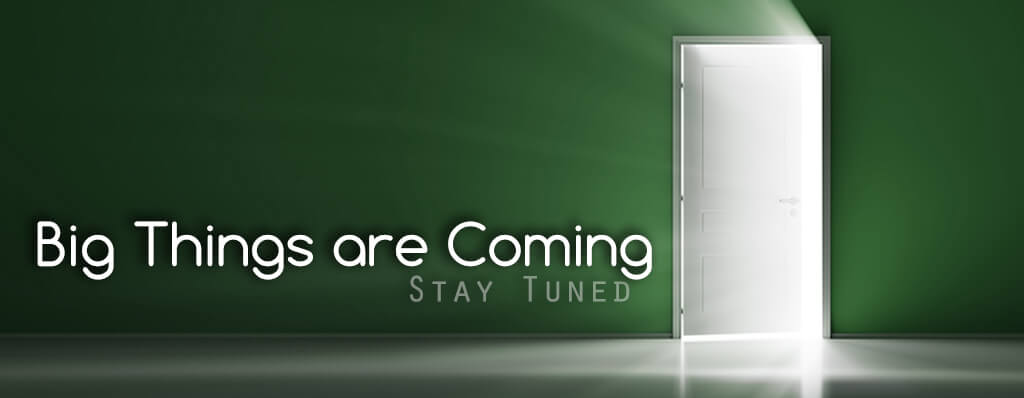
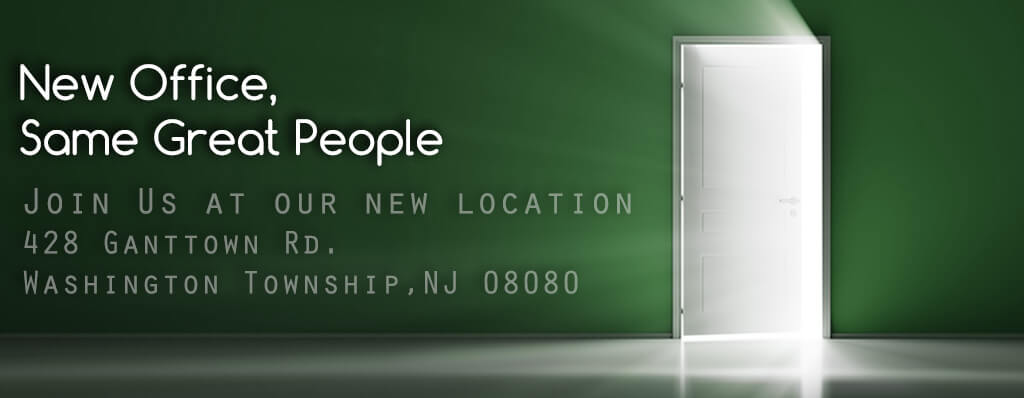
update

Changed region(s): [[0.0, 0.4824, 0.6562, 0.7538], [0.0, 0.3015, 0.4375, 0.4221], [0.0, 0.1508, 0.2812, 0.2714]]

diff --git a/orthodontics.php b/orthodontics.php
@@ -20,7 +20,7 @@
 		<p>Six month braces are thin, tooth-colored wires attached to your front teeth, gradually moving them to their ideal position. Although they are called “six month braces,” the treatment time commonly ranges between four to nine months. These braces are also
 		designed to focus solely on the front teeth and do not provide major improvements to bite issues. However, if you do not have a major dental issue and your goal is to prevent self-consciousness in social situation, then this treatment plan is perfect for you.</p></br>
 
-		<p>For more information about six month braces and other orthodontics treatments, <a href="http://www.dayspringlaserdentistry.com/contact.php">contact</a> your Turnersville, NJ, dentist today!</p>
+		<p>For more information about six month braces and other orthodontics treatments, <a href="index.php#infoCon">contact</a> your Turnersville, NJ, dentist today!</p>
 
 	</div>
 	<div id="servCon"><?php include '_services.php'; ?></div>

diff --git a/index.php b/index.php
@@ -73,8 +73,8 @@
   <div id="constr">
     <div id="hp_con"><img src="img/dld_ext_01.jpg"/> </div>
     <div id="hp_con_de">
-      <h1>Coming Soon - <a href="construction.php">CLICK here to view the progress</a></h1></br>
-      <p>We are planning on periodic updates of our construction, so here is the first installment. Demolition has started, so the inside is now gutted in preparation for the walls to be removed and changed. Exciting times! Can't wait to see the finished result!</p>
+      <h1>NEW OFFICE, same great people</h1></br>
+      <p>Please join us as we celebrate the opening of our new office.  We are located at 428 Ganttown Rd Washington Township, NJ 08080. Our location may have changed, but not our commitment to giving you the best dental experience in a friendly, comfortable, and stress free atmosphere.</p>
     </div>
   </div>
 

diff --git a/_footer.php b/_footer.php
@@ -21,10 +21,10 @@
 			<div itemscope itemtype="http://schema.org/Dentist">
 			<span itemprop="name">Dayspring Laser Dentistry</span>
 					<div itemprop="address" itemscope itemtype="http://schema.org/PostalAddress">
-					<span itemprop="streetAddress">188 Fries Mill Rd E2</span>
-					<span itemprop="addressLocality">Turnersville</span>,
+					<span itemprop="streetAddress">428 Ganttown Rd</span>
+					<span itemprop="addressLocality">Washington Township</span>,
 					<span itemprop="addressRegion">NJ</span>
-					<span itemprop="postalCode">08012</span>
+					<span itemprop="postalCode">08080</span>
 					</div>
 			Phone: <span itemprop="telephone">(856) 875-8400</span><br>
 					Emergency: (609) 221-2964<br>
